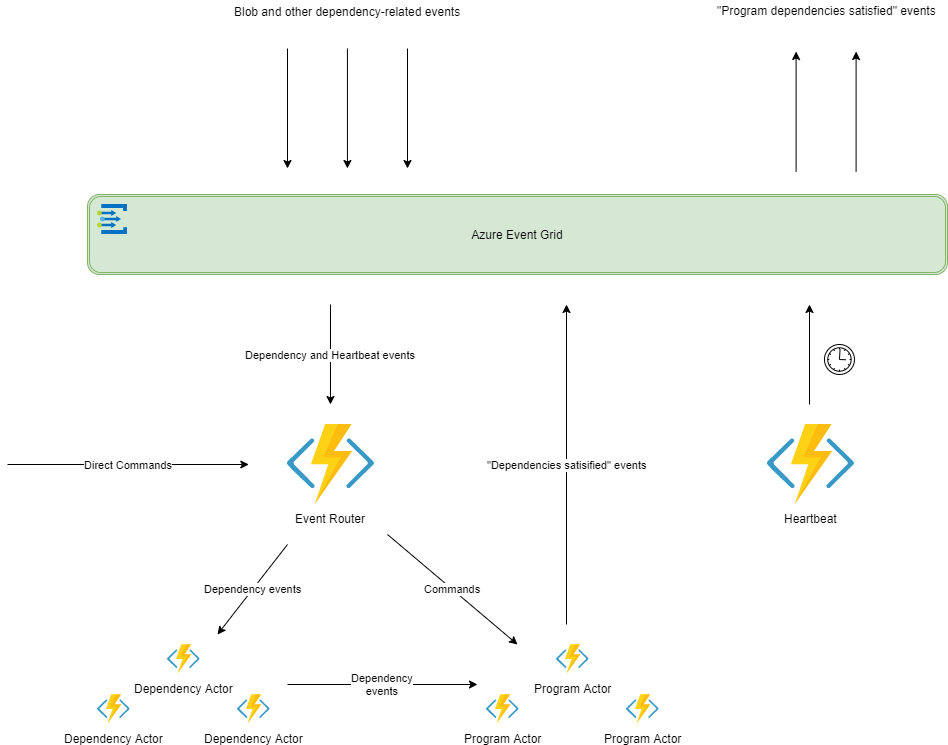
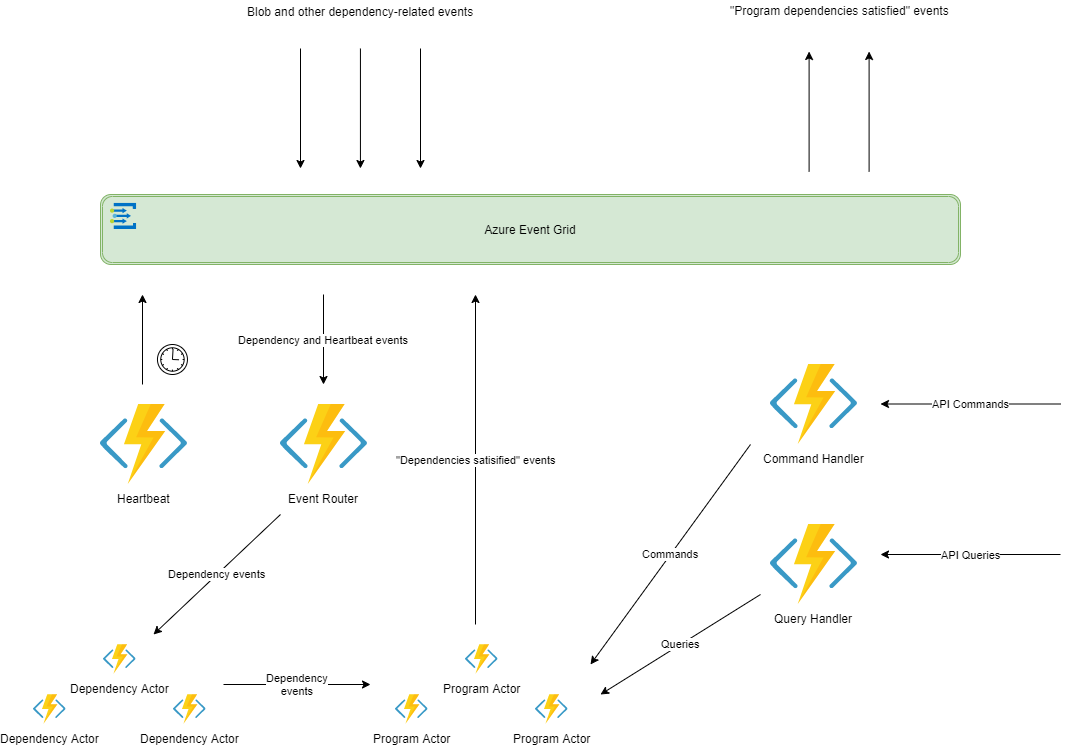
implemented CQRS pattern

diff --git a/ProgramActor/index.js b/ProgramActor/index.js
@@ -3,26 +3,26 @@ const msRestAzure = require("@azure/ms-rest-js");
 const msEventGrid = require("@azure/eventgrid");
 const uuid = require('uuid').v4;
 const p2dMap = require("../ProgramDependencyMapping").p2dMap; 
-const moment = require("moment")
+const moment = require("moment");
 
 module.exports = df.entity(async function(context) {
 
-    const evt =  context.df.getInput();
+    const input =  context.df.getInput();
 
-    let state = context.df.getState(() => getInitialState(context, evt.timestamp));
+    const state = context.df.getState(() => getInitialState(context, input.eventTime));
     
     switch (context.df.operationName) {
         case "fileEvent":
-            state = await onFileEvent(context, state, evt);
+            state = await onFileEvent(context, state, input);
             break;
         case "heartbeatEvent":
-            state = await onHeartbeatEvent(context, state, evt);
+            state = await onHeartbeatEvent(context, state, input);
             break;
-        case "manualInvoke":
-            state = await onManualInvokeEvent(context, state, evt);
+        case "invoke":
+            state = await onInvokeEvent(context, state, input);
             break;
         case "reset":
-            state = getInitialState(context, evt.timestamp);
+            state = getInitialState(context, input.eventTime);
             break;
         case "enable":
             state.enabled = true;
@@ -31,83 +31,75 @@ module.exports = df.entity(async function(context) {
             state.enabled = false;
             break;
     }
-
-    context.df.setState(state);
 });
 
-async function onManualInvokeEvent(context, state, evt) {
+async function onInvokeEvent(context, state, evt) {
 
-    if (!state.enabled) {
-        return state;
+    if (state.enabled) {
+        await publishEvent(context, state, evt);
     }
-
-    return await publishEvent(context, state, evt);
 }
 
 async function onFileEvent(context, state, evt) {
 
-    if (!state.enabled) {
-        return state;
+    if (state.enabled) {
+
+        const dep = state.dependencies.find(dep => dep.type === evt.type && dep.key === evt.key);
+
+        if (!dep) {
+
+            console.error(`No registered dependency of type '${dep.type}' and key '${dep.key}' for program '${state.program}'.`);
+
+        } else {
+
+            dep.arrivals.push(evt.eventTime);
+
+            const totalSatisfied = state.dependencies.reduce(
+                (accum, curr) => curr.arrivals.length > 0 ? accum + 1 : accum, 0);
+        
+            if (totalSatisfied === state.dependencies.length) {
+                await publishEvent(context, state, evt);
+            } else {
+                context.df.setState(state);
+            }
+        }
     }
-
-    const dep = state.dependencies.find(dep => dep.type === evt.type && dep.key === evt.key);
-
-    if (!dep) {
-        console.error(`No registered dependency of type '${dep.type}' and key '${dep.key}' for program '${state.program}'.`);
-    } else {
-        dep.arrivals.push(evt.timestamp);
-        state = await checkDependenciesSatisfied(context, state, evt);
-    }
-
-    return state;
 }
 
 async function onHeartbeatEvent(context, state, evt) {
 
-    if (!state.enabled) {
-        return state;
-    }
+    if (state.enabled) {
 
-    const first = state.first;
-    const now = moment(evt.timestamp);
-    const elapsed = moment.duration(now.diff(first));
-
-    state.last = now;
-
-    let reset = false;
-
-    switch(state.waitInterval) {
-        
-        case "hour":
-            reset = elapsed.minutes() >= 60;
-            break;
-
-        case "day":
-            reset = elapsed.hours() >= 24;
-            break;
-
-        case "week":
-            reset = elapsed.days() >= 7;
-            break;
-    }
-
-    if (reset) {
-        state = getInitialState(context, evt.timestamp);
-    }
+        const first = moment.utc(state.first);
+        const now = moment.utc(evt.eventTime);
+        const elapsed = moment.duration(now.diff(first));
     
-    return state;
-}
-
-async function checkDependenciesSatisfied(context, state, evt) {
-
-    const totalSatisfied = state.dependencies.reduce(
-        (accum, curr) => curr.arrivals.length > 0 ? accum + 1 : accum, 0);
-
-    if (totalSatisfied === state.dependencies.length) {
-        state = await publishEvent(context, state, evt);
+        state.last = now.format();
+    
+        let reset = false;
+    
+        switch(state.waitInterval) {
+            
+            case "hour":
+                reset = elapsed.minutes() >= 60;
+                break;
+    
+            case "day":
+                reset = elapsed.hours() >= 24;
+                break;
+    
+            case "week":
+                reset = elapsed.days() >= 7;
+                break;
+        }
+    
+        if (reset) {
+            const newState = getInitialState(context, evt.eventTime);
+            context.df.setState(newState);
+        } else {
+            context.df.setState(state);
+        }
     }
-
-    return state;
 }
 
 async function publishEvent(context, state, evt) {
@@ -133,13 +125,12 @@ async function publishEvent(context, state, evt) {
 
     await egClient.publishEvents(topicEndpoint, events)
                   .then(_ => {
-                      state = getInitialState(context, evt.timestamp);
+                      const newState = getInitialState(context, evt.eventTime);
+                      context.df.setState(newState);
                   })
                   .catch(err => {
                       console.error("Error publishing to event grid topic: " + err);
                   });
-
-    return state;
 }
 
 function getInitialState(context, now) {
@@ -156,8 +147,8 @@ function getInitialState(context, now) {
             "program": map.program,
             "enabled": true,
             "waitInterval": map.waitInterval,
-            "first": moment(now),
-            "last": moment(now),
+            "first": moment.utc(now).format(),
+            "last": moment.utc(now).format(),
             "dependencies": map.dependencies.map(dep => {
                 dep.arrivals = [];
                 return dep;

diff --git a/CommandHandlerFunction/index.js b/CommandHandlerFunction/index.js
@@ -1,0 +1,55 @@
+const df = require("durable-functions");
+const moment = require("moment")
+
+module.exports = async function (context, req) {
+
+    const actorProxy = df.getClient(context);
+
+    const category = context.bindingData.category;
+    const target = context.bindingData.target;
+    const command = context.bindingData.command;
+
+    if (category === "program") {
+        await onProgramCommand(target, command, actorProxy);
+    }
+};
+
+async function onProgramCommand(program, command, actorProxy) {
+
+    const timestamp = moment.utc().format();
+
+    switch(command) {
+        case "invoke":
+            await signalInvoke(program, actorProxy, timestamp);
+            break;
+        case "reset":
+            await signalReset(program, actorProxy, timestamp);
+            break;
+        case "enable":
+            await signalEnableDisable(program, actorProxy, timestamp, true);
+            break;
+        case "disable":
+            await signalEnableDisable(program, actorProxy, timestamp, false);
+            break;
+    }
+}
+
+async function signalEnableDisable(program, actorProxy, timestamp, enable) {
+    await signalProgram(program,
+                        enable ? "enable" : "disable",
+                        { "eventTime": timestamp },
+                        actorProxy);
+}
+
+async function signalInvoke(program, actorProxy, timestamp) {
+    await signalProgram(program, "invoke", { "eventTime": timestamp }, actorProxy);
+}
+
+async function signalReset(program, actorProxy, timestamp) {
+    await signalProgram(program, "reset", { "eventTime": timestamp }, actorProxy);
+}
+
+async function signalProgram(program, operation, arg, actorProxy) {
+    const programEntityId = new df.EntityId("ProgramActor", program);
+    await actorProxy.signalEntity(programEntityId, operation, arg);
+}

diff --git a/EventRouterFunction/index.js b/EventRouterFunction/index.js
@@ -18,47 +18,13 @@ module.exports = async function (context, req) {
             case "Kroger.DDR.Heartbeat":
                 await signalHeartbeat(evt, actorProxy);
                 break;
-            case "Kroger.DDR.ManualInvokeProgram":
-                await signalManualInvoke(evt, actorProxy);
-                break;
-            case "Kroger.DDR.ResetProgram":
-                await signalReset(evt, actorProxy);
-                break;
-            case "Kroger.DDR.EnableProgram":
-                await signalEnableDisable(evt, actorProxy, true);
-                break;
-            case "Kroger.DDR.DisableProgram":
-                await signalEnableDisable(evt, actorProxy, false);
-                break;
         }
     });
-
-    context.done();
 };
 
 function handleEventGridSubscriptionValidation(context, evt) {
     var code = evt.data.validationCode;
     context.res = { status: 200, body: { "ValidationResponse": code } };
-}
-
-async function signalEnableDisable(evt, actorProxy, enable) {
-    await signalProgram(evt.data.program,
-                        enable ? "enable" : "disable",
-                        { "timestamp": evt.eventTime },
-                        actorProxy);
-}
-
-async function signalManualInvoke(evt, actorProxy) {
-    await signalProgram(evt.data.program, "manualInvoke", { "timestamp": evt.eventTime }, actorProxy);
-}
-
-async function signalReset(evt, actorProxy) {
-    await signalProgram(evt.data.program, "reset", { "timestamp": evt.eventTime }, actorProxy);
-}
-
-async function signalProgram(program, operation, arg, actorProxy) {
-    const programEntityId = new df.EntityId("ProgramActor", program);
-    await actorProxy.signalEntity(programEntityId, operation, arg);
 }
 
 async function signalHeartbeat(evt, actorProxy) {

diff --git a/QueryHandlerFunction/index.js b/QueryHandlerFunction/index.js
@@ -1,0 +1,34 @@
+const df = require("durable-functions");
+
+module.exports = async function (context, req) {
+
+    const actorProxy = df.getClient(context);
+
+    const category = context.bindingData.category;
+    const target = context.bindingData.target;
+    const query = context.bindingData.query;
+
+    let result = null;
+
+    if (category === "program") {
+        result = await onProgramQuery(target, query, actorProxy);
+    }
+
+    return {
+        status: 200,
+        headers: {
+            'Content-Type': 'application/json'
+        },
+        body: result
+    };
+};
+
+async function onProgramQuery(program, query, actorProxy) {
+
+    switch(query) {
+        case "state":
+            const programEntityId = new df.EntityId("ProgramActor", program);
+            const response = await actorProxy.readEntityState(programEntityId);
+            return response.entityState;
+    }
+}

diff --git a/HeartbeatFunction/index.js b/HeartbeatFunction/index.js
@@ -25,7 +25,7 @@ module.exports = async function (context) {
 
         await axios({
             method: "post",
-            url: "http://localhost:7071/api/EventRouterFunction",
+            url: "http://localhost:7071/api/events",
             data: events
         });
 

diff --git a/DependencyActor/index.js b/DependencyActor/index.js
@@ -40,7 +40,7 @@ function onFileEvent(context, evt) {
     evt = {
         "type": type,
         "key": key,
-        "timestamp": evt.eventTime
+        "eventTime": evt.eventTime
     };
 
     programs.forEach(program => {

diff --git a/README.md b/README.md
@@ -30,4 +30,5 @@ Individual programs are represented as actors that keep track of their own state
     - **ManualInvokeProgram**: immediately causes the target program to fire its "dependencies satisfied" event (regardless of its current state) and then resets its state to default
     - **EnableProgram**: ensures the 'enabled' flag for a given program is set to True
     - **DisableProgram**: ensures the 'enabled' flag for a given program is set to False
+    - **QueryProgramState**: returns the dependency state for a program
 1. DEBUGGING TIP: [View events](https://docs.microsoft.com/en-us/azure/storage/queues/storage-quickstart-queues-portal#view-message-properties) emitted for programs with satisfied dependencies in the queue created in the first step above
